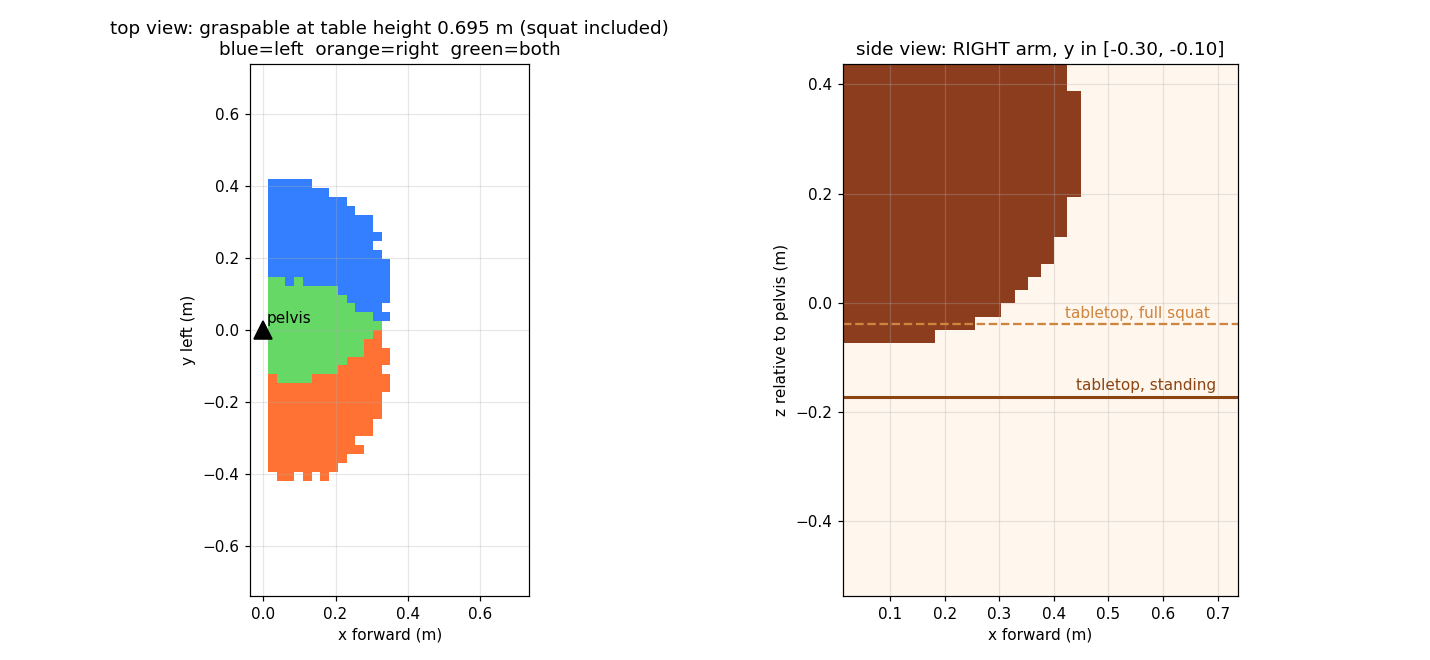
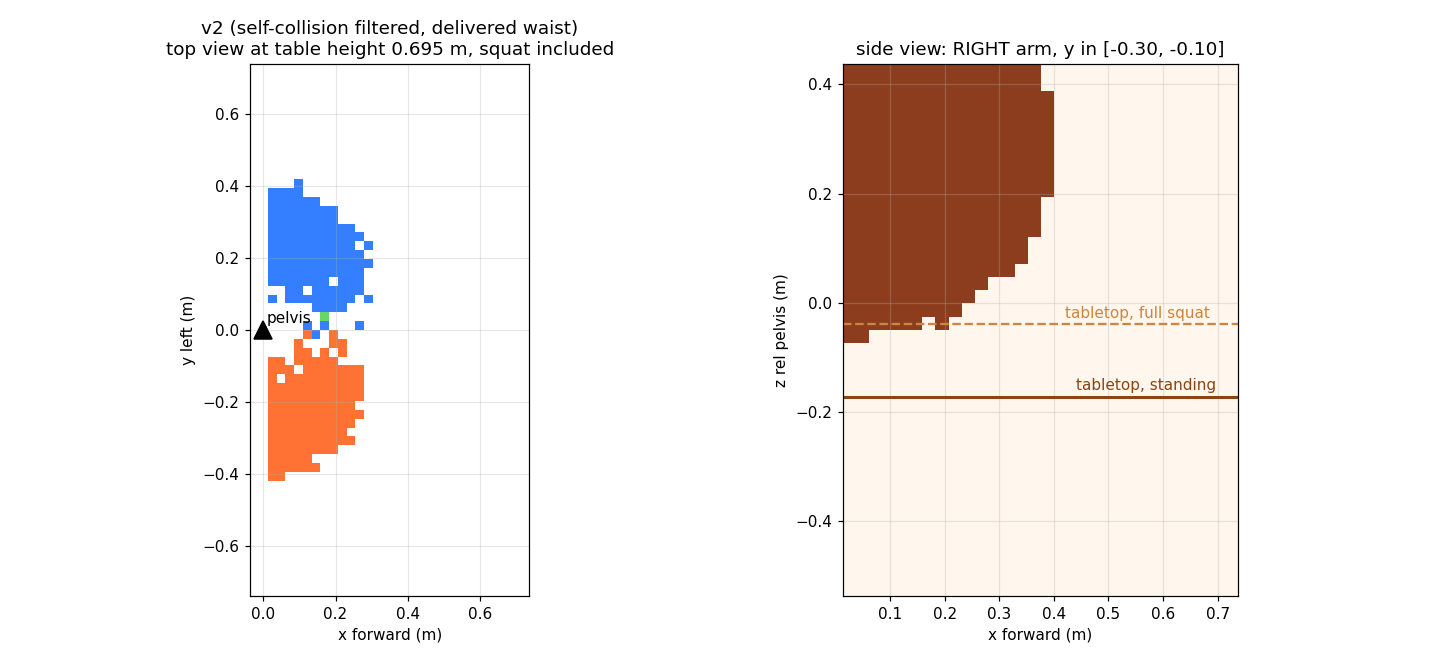
reach map v2: self-collision filter (probe found arm-through-torso voxels, 30 cm 'delivery error'), delivered-waist bins, exemplar evidence per voxel + probe harness
Probe protocol: replay each voxel's exemplar joints in streamed (A) and
pinned (B) modes, measure palm promise-vs-delivery. Findings: chest-region
mystery = self-collision in the unfiltered FK sampling; residual open-loop
error 3-8 cm traced to the policy's waist (pitch delivers 0.03-0.06 on a
0.25 command, yaw wanders 0.2 rad under unusual arm poses) — the navigator
erodes the lookup instead of trusting lean.

diff --git a/teleop_free/diag_reach_probe.py b/teleop_free/diag_reach_probe.py
@@ -1,0 +1,200 @@
+"""Probe the reach map against the real control stack.
+
+Replays per-voxel exemplar joint solutions (the map's own evidence) on the
+live sim, in two arm modes, and measures promise-vs-delivery:
+
+    A  streamed reference: the 29-joint pose stream the grasp currently uses
+       — the policy tracks it, with whatever attenuation it has;
+    B  actuator pin: the arm motors' own position loop (:5582 pin_arms).
+
+Strata: core (deep inside), edge (map boundary), chest (the both-arms
+overlap at the midline — kinematically fine, empirically suspect), and
+outside (just beyond the map; IK-checked first to estimate the sampling
+false-negative rate).
+
+Output: outputs/logs/reach_probe.jsonl, one record per point per mode, plus
+a printed summary table.
+"""
+
+from __future__ import annotations
+
+import json
+import os
+import sys
+import time
+
+import numpy as np
+
+sys.path.insert(0, os.path.dirname(os.path.abspath(__file__)))
+
+import stream_reach  # noqa: E402
+from arm_ik import ArmIK  # noqa: E402
+from g1_joints import ARM_MJ  # noqa: E402
+from primitives import (  # noqa: E402
+    LocomotionMode,
+    Primitives,
+    StreamMode,
+)
+from privileged_pub import EpisodeControlClient  # noqa: E402
+from reach_map import MAP_PATH, OFFSET_DIR  # noqa: E402
+
+OUT = "/workspace/code/locomanipulation/outputs/logs/reach_probe.jsonl"
+SCENE_META = "/workspace/code/locomanipulation/outputs/scene/sim/scene_meta.json"
+
+N_CORE, N_EDGE, N_CHEST, N_OUT = 4, 6, 2, 3   # per arm
+
+
+def erode(g: np.ndarray) -> np.ndarray:
+    """6-neighbourhood binary erosion."""
+    out = g.copy()
+    for ax in (0, 1, 2):
+        out &= np.roll(g, 1, axis=ax) & np.roll(g, -1, axis=ax)
+    return out
+
+
+def pick(rng, mask, n):
+    idx = np.argwhere(mask)
+    if len(idx) == 0:
+        return []
+    return [tuple(r) for r in idx[rng.choice(len(idx), min(n, len(idx)),
+                                             replace=False)]]
+
+
+def select_points(z, rng):
+    pts = []          # (stratum, side, (i,j,k))
+    vox, org = float(z["vox"]), z["origin"]
+    for side in ("left", "right"):
+        occ = z[side]
+        e1 = erode(occ)
+        e3 = erode(erode(e1))
+        core, edge = e3, occ & ~e1
+        js = ((np.arange(occ.shape[1]) + 0.5) * vox + org[1])
+        mid = np.zeros_like(occ)
+        mid[:, np.abs(js) < 0.15, :] = True
+        chest = occ & z["both"] & mid
+        # outside: one dilation ring
+        dil = occ.copy()
+        for ax in (0, 1, 2):
+            dil |= np.roll(occ, 1, axis=ax) | np.roll(occ, -1, axis=ax)
+        outside = dil & ~occ
+        for name, mask, n in (("core", core, N_CORE), ("edge", edge, N_EDGE),
+                              ("chest", chest, N_CHEST),
+                              ("outside", outside, N_OUT)):
+            for v in pick(rng, mask, n):
+                pts.append((name, side, v))
+    return pts
+
+
+def main() -> None:
+    z = np.load(MAP_PATH)
+    rng = np.random.default_rng(7)
+    pts = select_points(z, rng)
+    vox, org = float(z["vox"]), z["origin"]
+    ik = ArmIK()
+
+    meta = json.load(open(SCENE_META))
+    p = Primitives(meta=meta)
+    reset = EpisodeControlClient()
+    out = open(OUT, "w")
+
+    def measure(side, want_pos, want_appr, n=10):
+        errs, angs, pz = [], [], []
+        for _ in range(n):
+            s = p.obs()
+            pf = p.world_to_root_full(s["palms"][side]["pos"], s)
+            errs.append(float(np.linalg.norm(pf - want_pos)))
+            rotp = Primitives._rot(s["palms"][side]["quat"])
+            # palm rot is world-frame; express in pelvis frame like the map
+            rp = Primitives._rot(s["pelvis"]["quat"]).T @ rotp
+            a = rp @ OFFSET_DIR
+            angs.append(float(np.degrees(np.arccos(np.clip(
+                a @ want_appr / (np.linalg.norm(want_appr) + 1e-9), -1, 1)))))
+            pz.append(float(s["pelvis"]["pos"][2]))
+            time.sleep(0.1)
+        s = p.obs()
+        return (float(np.mean(errs)), float(np.mean(angs)),
+                float(np.mean(pz)), bool(s["fallen"]))
+
+    def fresh():
+        p.cmd.reset_pose()
+        reset.pin_arms()
+        reset.reset()
+        time.sleep(0.2)
+        p.cmd.start_control()
+        p.cmd.hold(4.0, mode=LocomotionMode.IDLE)
+        stream_reach.reanchor(p)
+
+    fresh()
+    by_side = {"left": [], "right": []}
+    for st, side, v in pts:
+        by_side[side].append((st, v))
+
+    results = []
+    for side, items in by_side.items():
+        if not items:
+            continue
+        arm = stream_reach.StreamedArm(p, side)
+        arm.start()
+        done_in_session = 0
+        for st, (i, j, k) in items:
+            want_pos = z[f"ex_pos_{side}"][i, j, k]
+            want_appr = z[f"ex_appr_{side}"][i, j, k]
+            q7 = z[f"ex_q_{side}"][i, j, k]
+            wp = float(z[f"ex_wp_{side}"][i, j, k])
+            if st == "outside":
+                # no exemplar exists; ask IK whether the map merely missed it
+                centre = org + (np.array([i, j, k]) + 0.5) * vox
+                q0 = np.zeros(29)
+                qs, res, _ = ik.solve(side, centre, None, q_mj29=q0,
+                                      use_waist=False, iters=60)
+                rec = {"stratum": st, "side": side,
+                       "voxel": [int(i), int(j), int(k)],
+                       "ik_residual": float(res)}
+                out.write(json.dumps(rec) + "\n")
+                results.append(rec)
+                continue
+            q_t = arm.q.copy()
+            q_t[14] = wp
+            q_t[ARM_MJ[side]] = q7
+            arm.move_to(q_t, speed=1.0)
+            arm.hold(1.0)
+            eA, aA, zA, fA = measure(side, want_pos, want_appr)
+            reset.pin_arms(**{side: list(map(float, q7))})
+            arm.hold(1.0)
+            eB, aB, zB, fB = measure(side, want_pos, want_appr)
+            reset.pin_arms()
+            rec = {"stratum": st, "side": side,
+                   "voxel": [int(i), int(j), int(k)], "waist": wp,
+                   "A_err_cm": round(eA * 100, 1), "A_ang": round(aA, 0),
+                   "B_err_cm": round(eB * 100, 1), "B_ang": round(aB, 0),
+                   "pelvis_z": round(zA, 3), "fell": fA or fB}
+            print(f"{st:8s} {side:5s} {np.round(want_pos, 2)}: "
+                  f"A {rec['A_err_cm']} cm/{rec['A_ang']:.0f}deg  "
+                  f"B {rec['B_err_cm']} cm/{rec['B_ang']:.0f}deg"
+                  f"{'  FELL' if rec['fell'] else ''}")
+            out.write(json.dumps(rec) + "\n")
+            results.append(rec)
+            done_in_session += 1
+            if rec["fell"]:
+                arm.stop()
+                fresh()
+                arm = stream_reach.StreamedArm(p, side)
+                arm.start()
+        arm.stop()
+
+    out.close()
+    execd = [r for r in results if "A_err_cm" in r]
+    if execd:
+        for m in ("A", "B"):
+            e = [r[f"{m}_err_cm"] for r in execd]
+            print(f"mode {m}: err mean {np.mean(e):.1f} cm  "
+                  f"p90 {np.percentile(e, 90):.1f} cm  "
+                  f"fails>4cm {sum(x > 4 for x in e)}/{len(e)}")
+    outs = [r for r in results if r["stratum"] == "outside"]
+    if outs:
+        fn = sum(r["ik_residual"] < 0.01 for r in outs)
+        print(f"outside voxels IK-reachable (false negatives): {fn}/{len(outs)}")
+
+
+if __name__ == "__main__":
+    main()

diff --git a/teleop_free/reach_map.py b/teleop_free/reach_map.py
@@ -47,7 +47,12 @@ JAW_TILT_MAX = np.deg2rad(25.0)
 # Delivered torso capability (measured on this stack, not commanded):
 PELVIS_MAX = 0.793            # standing pelvis height
 PELVIS_MIN = 0.660            # deepest DELIVERED squat (~13 cm, stream_reach)
-WAIST_PITCH = (0.0, 0.25)     # forward lean the policy actually tracks
+WAIST_PITCH = (0.0, 0.05)     # DELIVERED lean while standing: commanding
+                              # 0.25 measures 0.03-0.06, and the policy also
+                              # wanders waist yaw ~0.2 rad in response to
+                              # unusual arm poses — the map keeps the waist
+                              # nearly neutral and the navigator erodes the
+                              # lookup by 5 cm instead of trusting lean
 
 # Voxel grid, pelvis frame.
 VOX = 0.025
@@ -55,7 +60,7 @@ X0, X1 = 0.00, 0.75
 Y0, Y1 = -0.75, 0.75
 Z0, Z1 = -0.55, 0.45
 
-N_SAMPLES = 250_000           # per arm per waist config
+N_SAMPLES = 120_000           # per arm per waist config
 
 
 def _grid_shape():
@@ -66,11 +71,47 @@ def _grid_shape():
 
 
 def build(seed: int = 0) -> dict:
+    import mujoco
     ik = ArmIK()
     rng = np.random.default_rng(seed)
+    # Self-collision filter. mj_kinematics alone accepted configurations
+    # with the forearm through the chest — the probe measured 30+ cm of
+    # "delivery error" there because the sim, unlike bare FK, has a torso.
+    # Robot-robot contact pairs (non-adjacent bodies) reject a sample.
+    m = ik.model
+    robot_geoms = set()
+    for g in range(m.ngeom):
+        nm = m.body(m.geom_bodyid[g]).name
+        if nm.startswith(("left_", "right_", "pelvis", "torso", "waist",
+                          "logo", "head", "imu")):
+            robot_geoms.add(g)
+
+    def self_collides() -> bool:
+        mujoco.mj_collision(m, ik.data)
+        d = ik.data
+        for ci in range(d.ncon):
+            g1, g2 = d.contact.geom1[ci], d.contact.geom2[ci]
+            if g1 not in robot_geoms or g2 not in robot_geoms:
+                continue
+            b1, b2 = m.geom_bodyid[g1], m.geom_bodyid[g2]
+            if b1 == b2 or m.body_parentid[b1] == b2 or m.body_parentid[b2] == b1:
+                continue
+            return True
+        return False
     nx, ny, nz = _grid_shape()
     occ = {"left": np.zeros((nx, ny, nz), dtype=bool),
            "right": np.zeros((nx, ny, nz), dtype=bool)}
+    # Exemplar evidence per voxel: the joint solution that made it feasible.
+    # The verification probe replays exactly this — the promise, not a
+    # re-derivation of it.
+    ex_q = {s2: np.zeros((nx, ny, nz, 7), dtype=np.float32)
+            for s2 in ("left", "right")}
+    ex_wp = {s2: np.full((nx, ny, nz), np.nan, dtype=np.float32)
+             for s2 in ("left", "right")}
+    ex_pos = {s2: np.zeros((nx, ny, nz, 3), dtype=np.float32)
+              for s2 in ("left", "right")}
+    ex_appr = {s2: np.zeros((nx, ny, nz, 3), dtype=np.float32)
+               for s2 in ("left", "right")}
 
     for side in ("left", "right"):
         arm = ARM_MJ[side]
@@ -92,10 +133,17 @@ def build(seed: int = 0) -> dict:
                 jaw_tilt = abs(float(np.arcsin(np.clip(rot[2, 1], -1, 1))))
                 if jaw_tilt > JAW_TILT_MAX:
                     continue
+                if self_collides():
+                    continue
                 i = int((pos[0] - X0) / VOX)
                 j = int((pos[1] - Y0) / VOX)
                 k = int((pos[2] - Z0) / VOX)
                 if 0 <= i < nx and 0 <= j < ny and 0 <= k < nz:
+                    if not occ[side][i, j, k]:
+                        ex_q[side][i, j, k] = row
+                        ex_wp[side][i, j, k] = wp
+                        ex_pos[side][i, j, k] = pos
+                        ex_appr[side][i, j, k] = appr
                     occ[side][i, j, k] = True
                     kept += 1
             print(f"  {side} waist {wp:.2f}: kept {kept}/{N_SAMPLES}")
@@ -104,7 +152,11 @@ def build(seed: int = 0) -> dict:
     np.savez_compressed(
         MAP_PATH, left=occ["left"], right=occ["right"], both=both,
         vox=VOX, origin=np.array([X0, Y0, Z0]),
-        pelvis_range=np.array([PELVIS_MIN, PELVIS_MAX]))
+        pelvis_range=np.array([PELVIS_MIN, PELVIS_MAX]),
+        ex_q_left=ex_q["left"], ex_q_right=ex_q["right"],
+        ex_wp_left=ex_wp["left"], ex_wp_right=ex_wp["right"],
+        ex_pos_left=ex_pos["left"], ex_pos_right=ex_pos["right"],
+        ex_appr_left=ex_appr["left"], ex_appr_right=ex_appr["right"])
     print(f"saved {MAP_PATH}: both {both.sum()} voxels "
           f"({both.sum() * VOX**3 * 1e3:.1f} litres)")
     return {"left": occ["left"], "right": occ["right"], "both": both}
